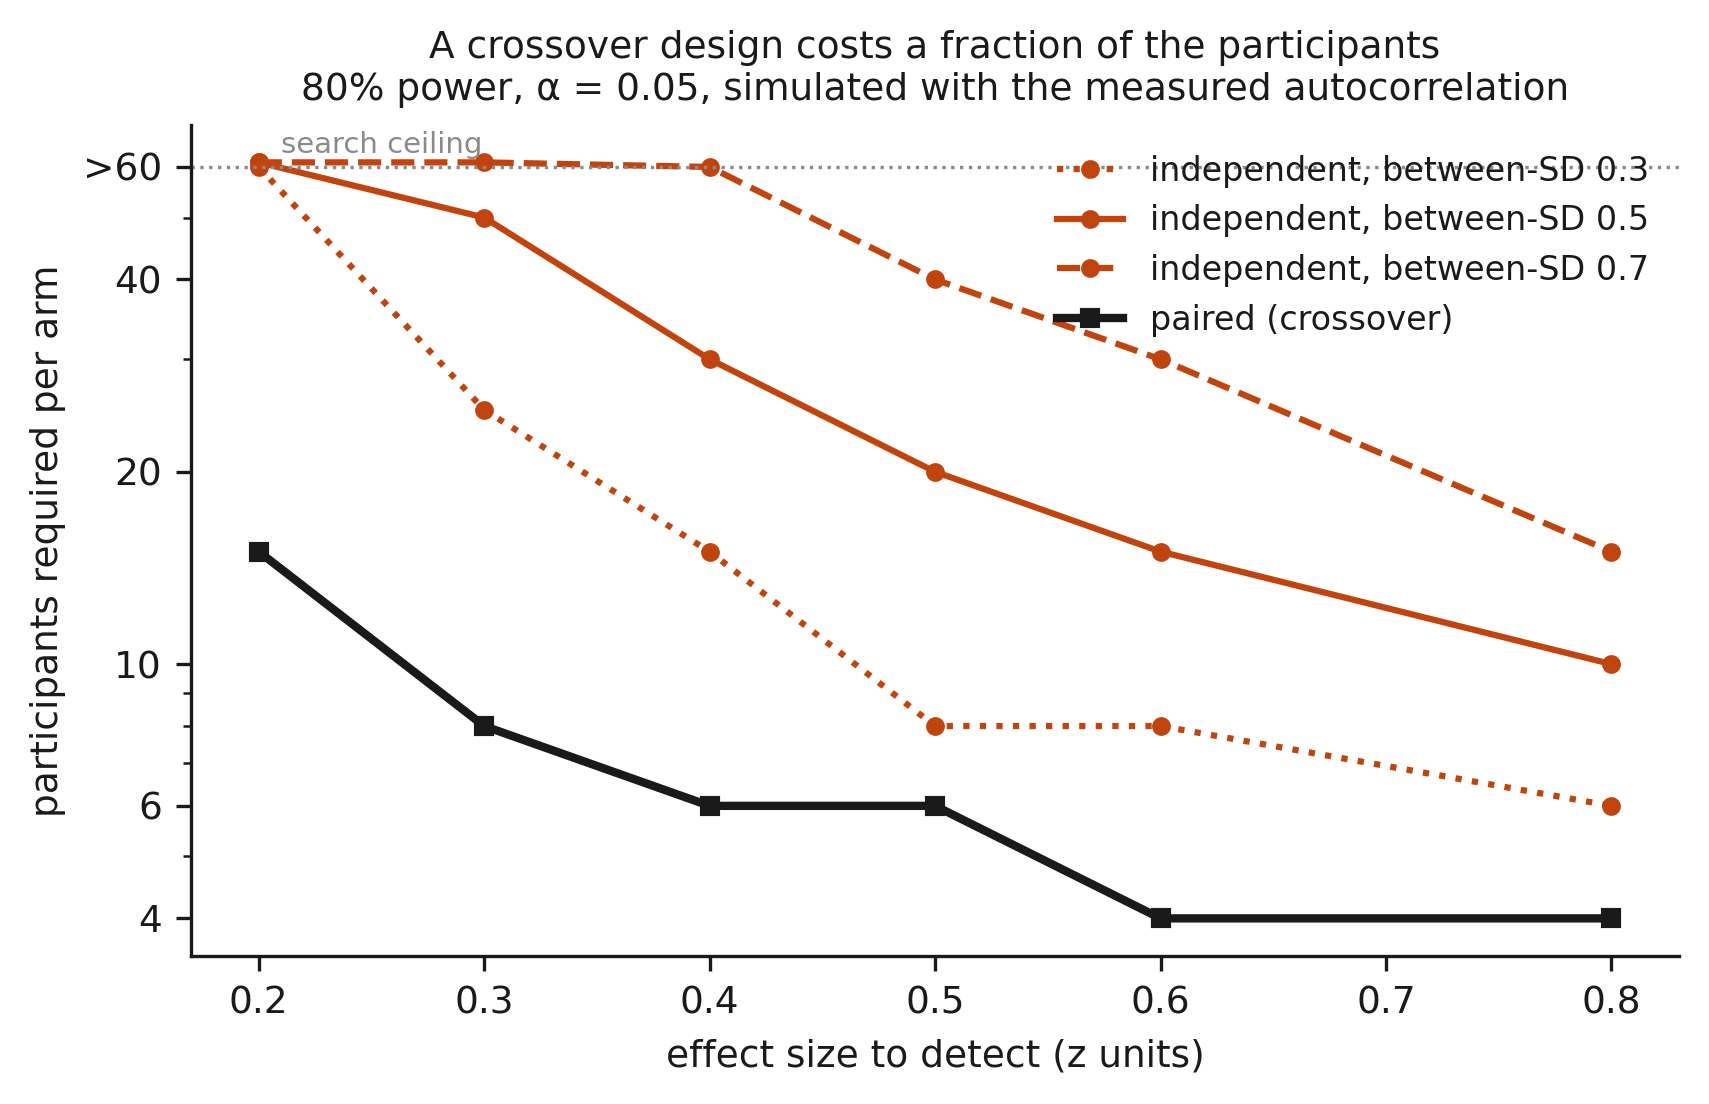
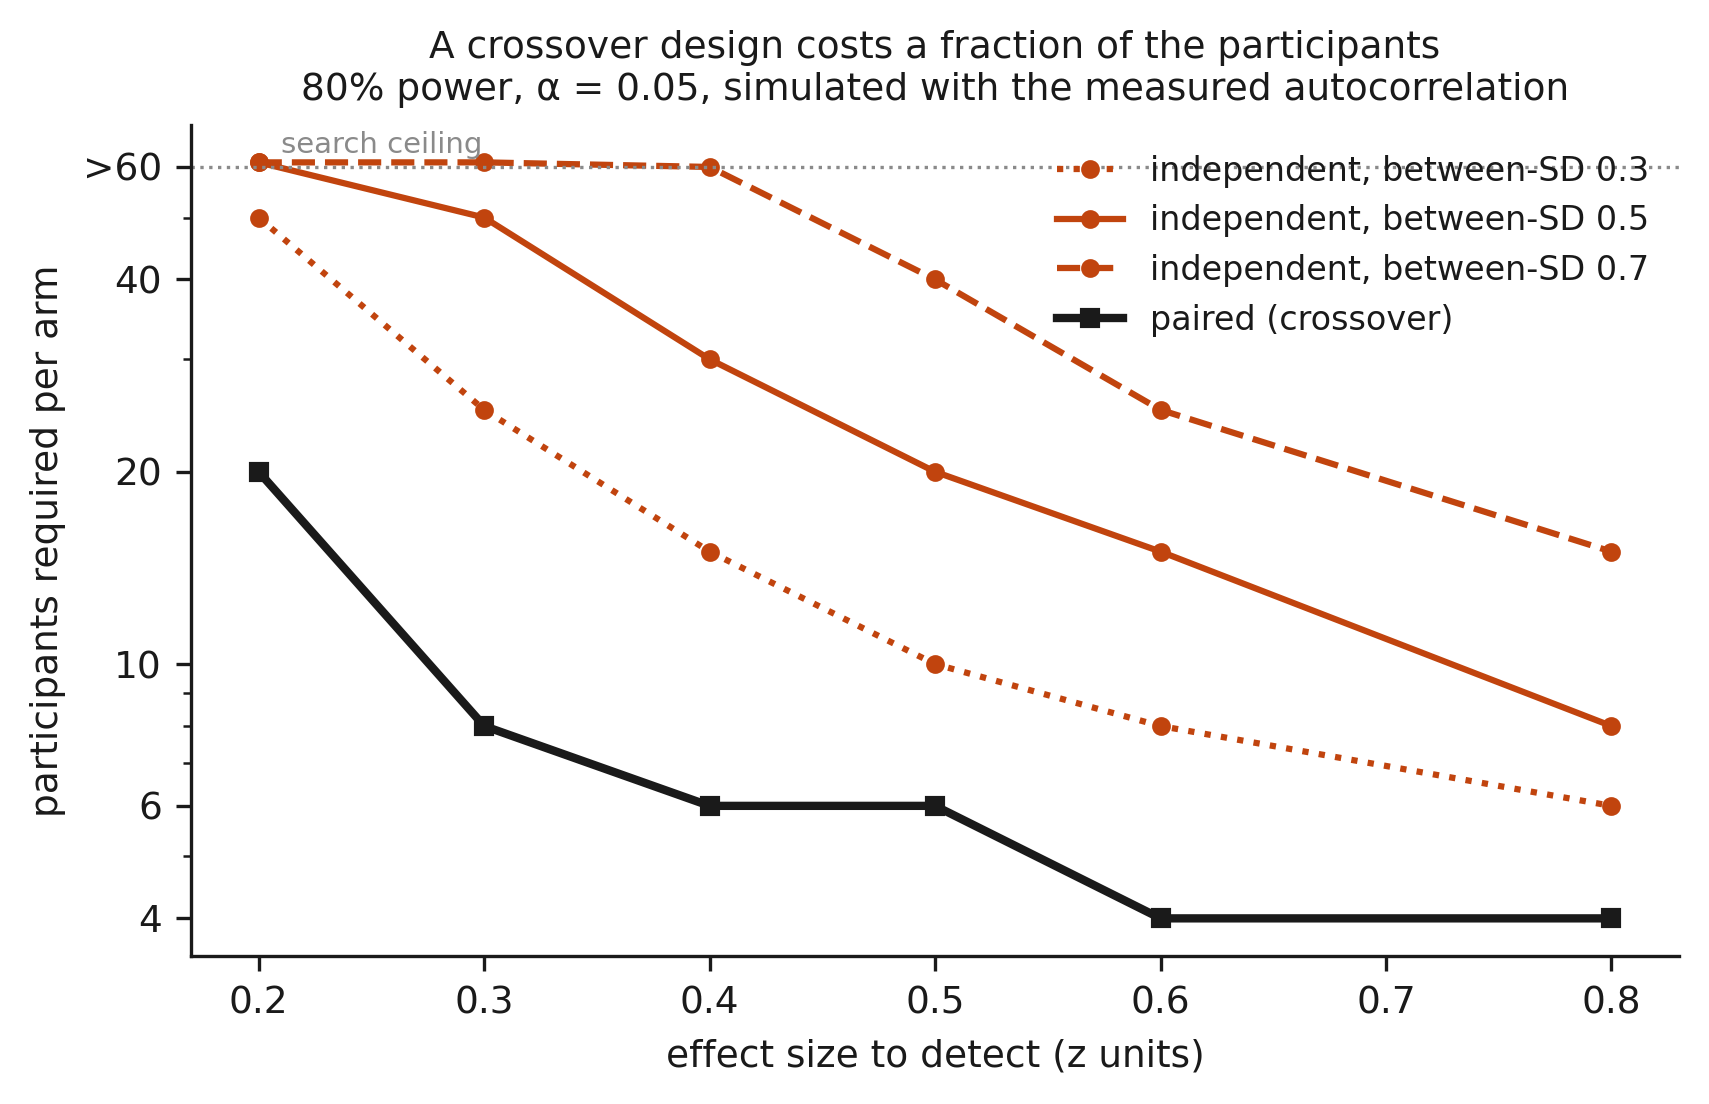
the power numbers the study is designed around were checked by nothing (9/5)
Regenerating the figures turned up one that the committed code does not reproduce -
fig5_power.png - and pulling that thread found a larger gap behind it.

THE FIGURE

fig5 is the only panel whose CONTENT depends on a command-line flag. Its curves are
Monte Carlo estimates and --sims moves them. The committed PNG was generated at some
value recorded nowhere, so the current code produces a different figure from the same
inputs. Checked that this was not my doing: power_analysis.py last changed 8/16, the
figure was regenerated 8/28, and the only later edit to make_figures.py was d2f3720,
which added fig6 and touched nothing else (61 insertions, 0 deletions).

The figure now stamps its own simulation count and seed. A figure that cannot be
regenerated is an assertion, not a result.

THE LARGER GAP

verify_claims.py had no power claims at all - zero. The numbers the whole study design
rests on were regenerated by nothing:

  "At n = 10, power to detect 0.15 z is 38%"   analysis_plan.md section 4
  n = 25 per arm for 80% power at 0.15 z       the anchor for the retuned n = 7

The first is the reason this is a feasibility study rather than a test of H1. The
second is what finding_analysis_latency.md compares its retuned projection against, so
the entire "infeasible to feasible" argument hangs on it. Both are in the FROZEN
pre-registration, which makes this worse rather than better: a frozen number cannot be
[…]

diff --git a/scripts/verify_claims.py b/scripts/verify_claims.py
@@ -259,6 +259,49 @@ def claim_streaming_latency_budget() -> tuple[float, str]:
 
 
 # claim -> (function, value asserted in the manuscript, tolerance)
+# Simulations per power cell. 1000 leaves required_n straddling a grid step (25 or 30
+# depending on seed); 2000 pins it at 25 with the power estimate varying by 0.010 across
+# seeds. The tolerances on the two power claims below are that measured spread, not a
+# guess - a stochastic quantity asserted to more precision than its own noise is a test
+# that fails for the wrong reason.
+_POWER_SIMS = 2000
+
+
+def _power_ctx():
+    from power_analysis import session_stats
+    return session_stats(sorted(glob.glob(os.path.join(_ROOT, "sessions", "PILOT*")))[-1])
+
+
+def claim_power_at_registered_n() -> tuple[float, str]:
+    """
+    Power to detect the smallest effect of interest at the registered n.
+
+    analysis_plan.md section 4 states 38%, and that number is the reason this is a
+    feasibility study rather than a test of H1. It is frozen, so it cannot move - but it
+    can stop being reproducible, which is worse, because the registered design would then
+    rest on a computation nobody can rerun. Nothing checked it until 9/5.
+    """
+    from power_analysis import power_for
+    st = _power_ctx()
+    got = power_for(np.random.default_rng(0), 10, 0.15, 0.5, st, True, "z_mean",
+                    _POWER_SIMS)
+    return float(got), f"paired, n=10 per arm, 0.15 z, {_POWER_SIMS} sims"
+
+
+def claim_required_n_for_target_effect() -> tuple[float, str]:
+    """
+    Participants per arm for 80% power at 0.15 z, paired.
+
+    This is the 25 that finding_analysis_latency.md compares its retuned projection of 7
+    against, so the whole "infeasible to feasible" argument is anchored on it.
+    """
+    from power_analysis import required_n
+    st = _power_ctx()
+    got = required_n(np.random.default_rng(0), 0.15, 0.5, st, True, "z_mean",
+                     _POWER_SIMS)
+    return float(got), f"paired, 80% power, {_POWER_SIMS} sims"
+
+
 def claim_trend_noise_to_signal() -> tuple[float, str]:
     """
     How many times larger the trend estimator's noise is than the drift it describes.
@@ -401,6 +444,8 @@ CLAIMS = {
     "ladder margin 0.25 still responds":  (claim_ladder_margin_responds,  8,      2),
     "trend noise / genuine drift":        (claim_trend_noise_to_signal,   1.77,   0.05),
     "distinct prompts build_prompt emits":(claim_reachable_prompt_space,  5,      0),
+    "power at the registered n = 10":     (claim_power_at_registered_n,   0.389,  0.02),
+    "participants per arm for 0.15 z":    (claim_required_n_for_target_effect, 25, 5),
 }
 
 

diff --git a/docs/HANDOFF.md b/docs/HANDOFF.md
@@ -11,7 +11,7 @@ Verify the state is still current before trusting anything below:
 python scripts/run_tests.py && python scripts/verify_claims.py
 ```
 
-Expected: **44 passed, 0 failed** and **23 claims reproduce**. If either disagrees,
+Expected: **44 passed, 0 failed** and **25 claims reproduce**. If either disagrees,
 something changed after this was written and the numbers here are stale.
 
 ---
